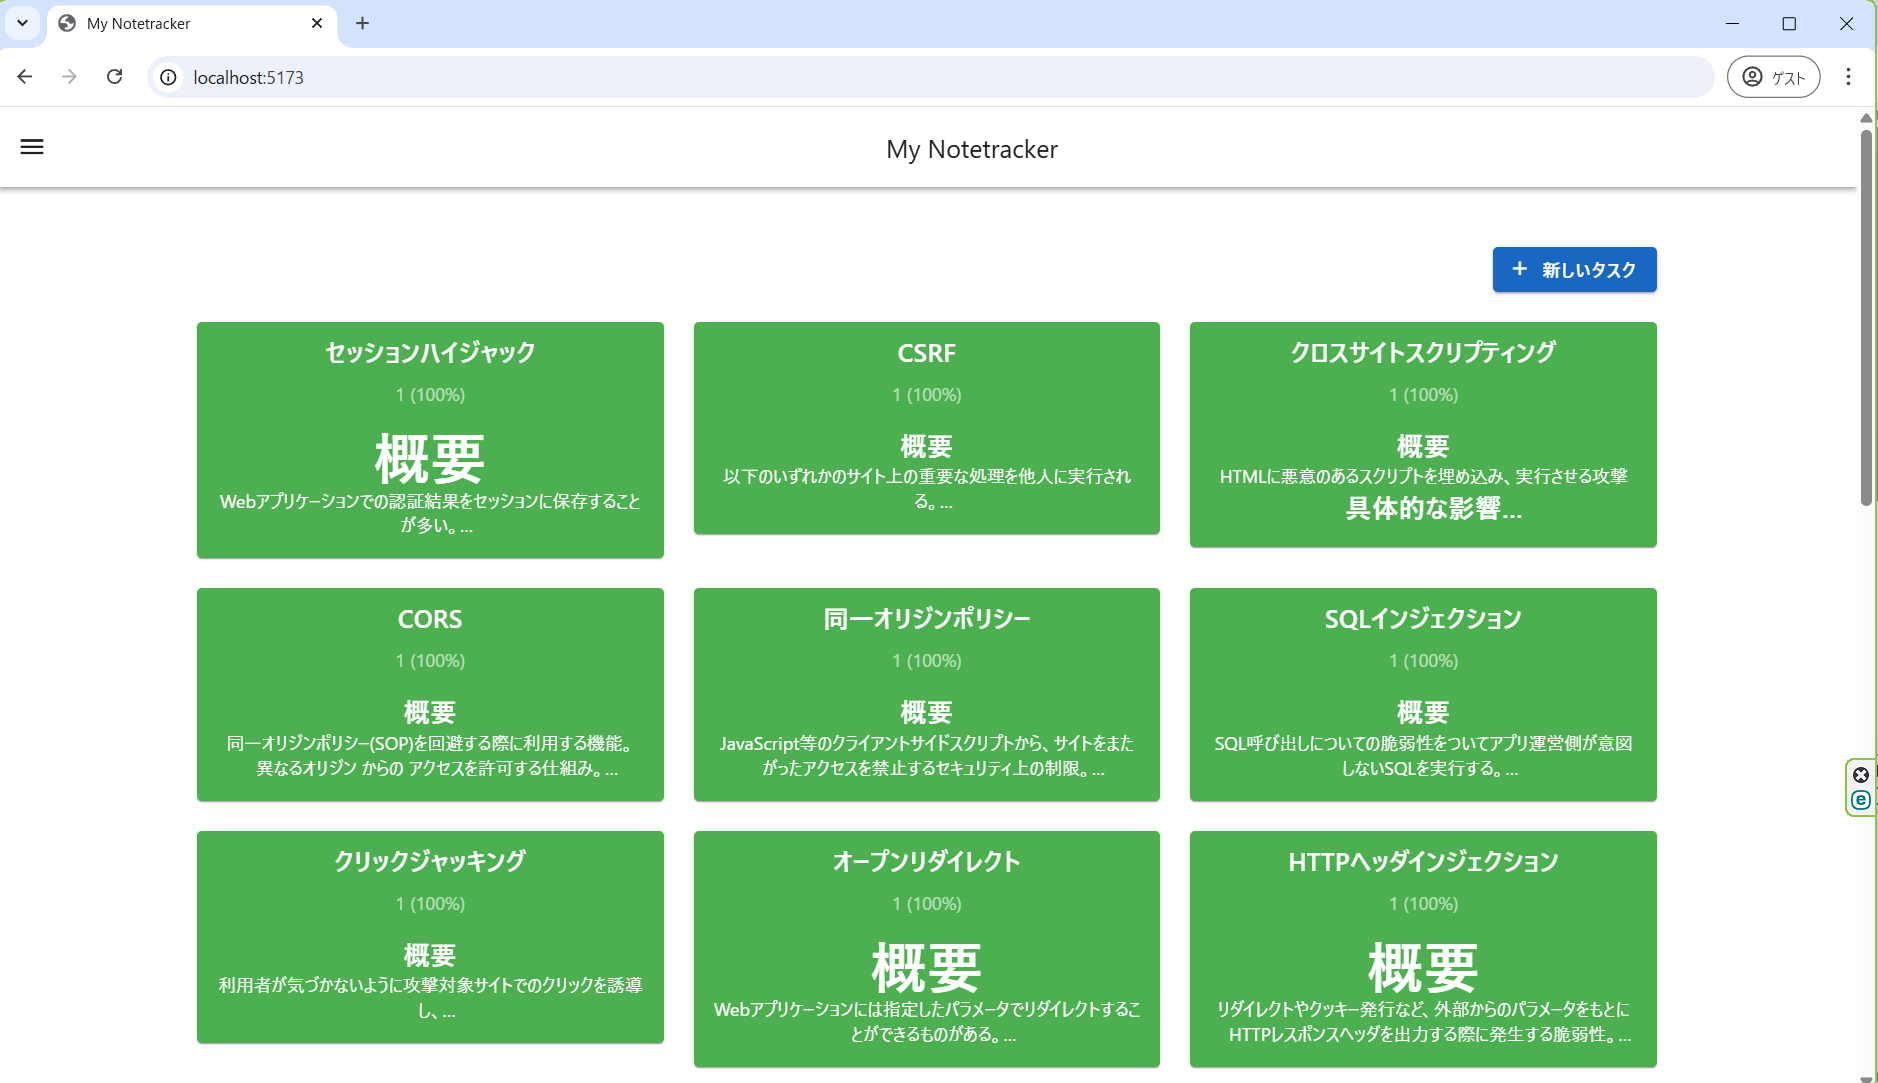
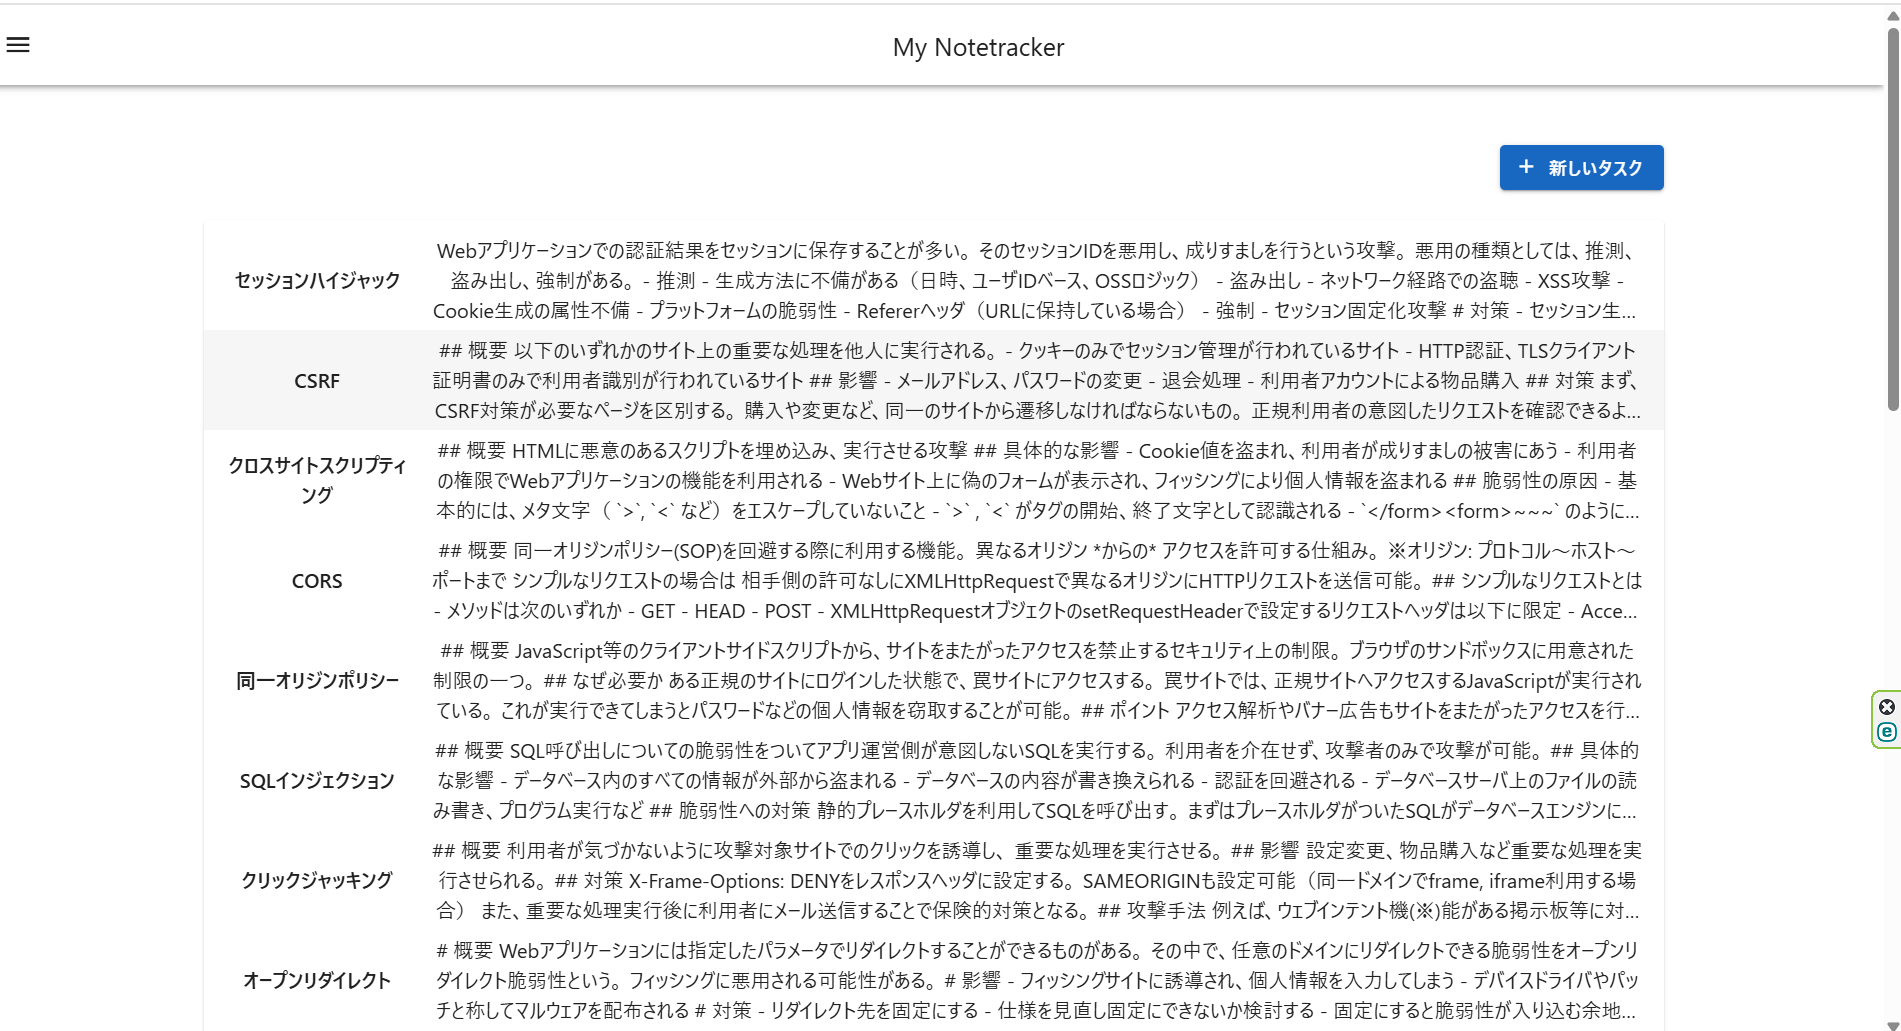
readme: レイアウトに関する説明を修正

diff --git a/README.md b/README.md
@@ -5,8 +5,7 @@
 #### Top
 ![Top View](top-image.png)  
 
-- DjangoのUIベースで記述していたため表示が崩れている。修正予定。
-- 全体的にイケてない、Djangoのモデルも合わせて修正する
+- 左ペインにメニュー追加予定
 
 #### タスク新規作成
 ![alt Task create](new-task-image.png)  
